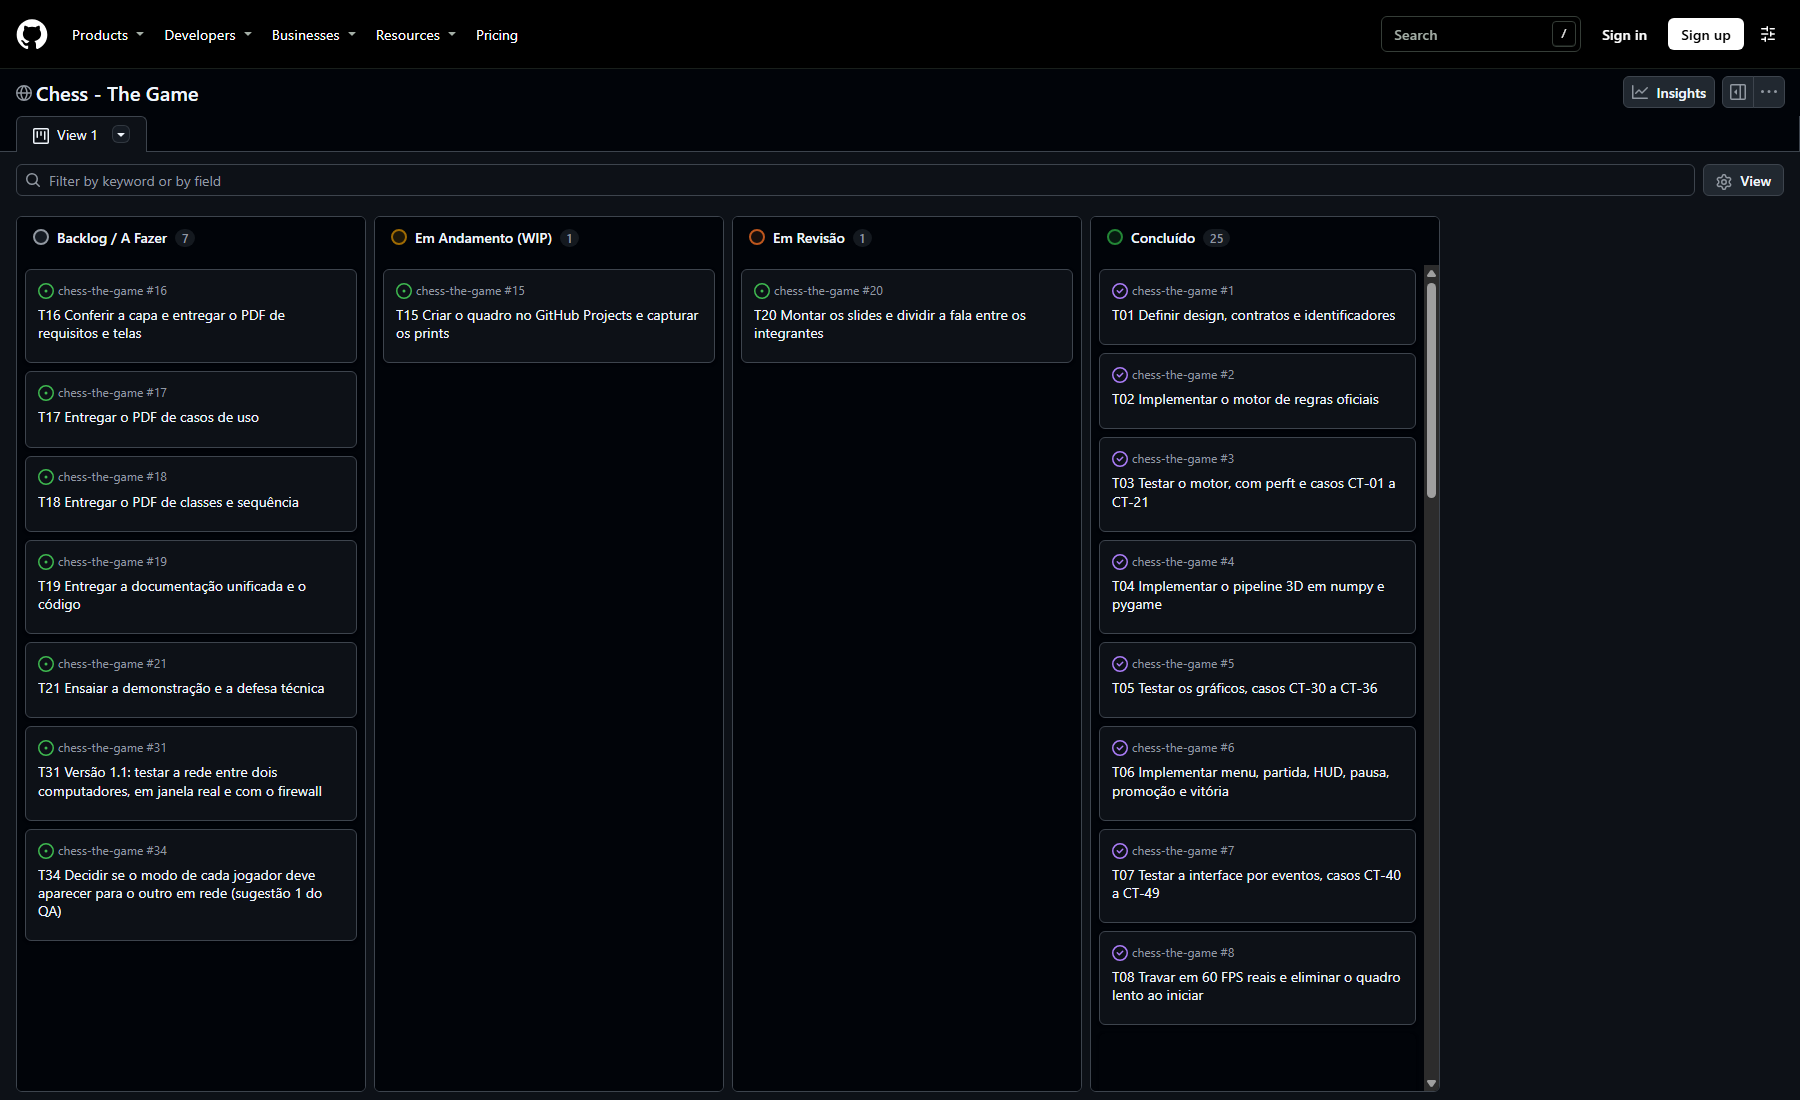
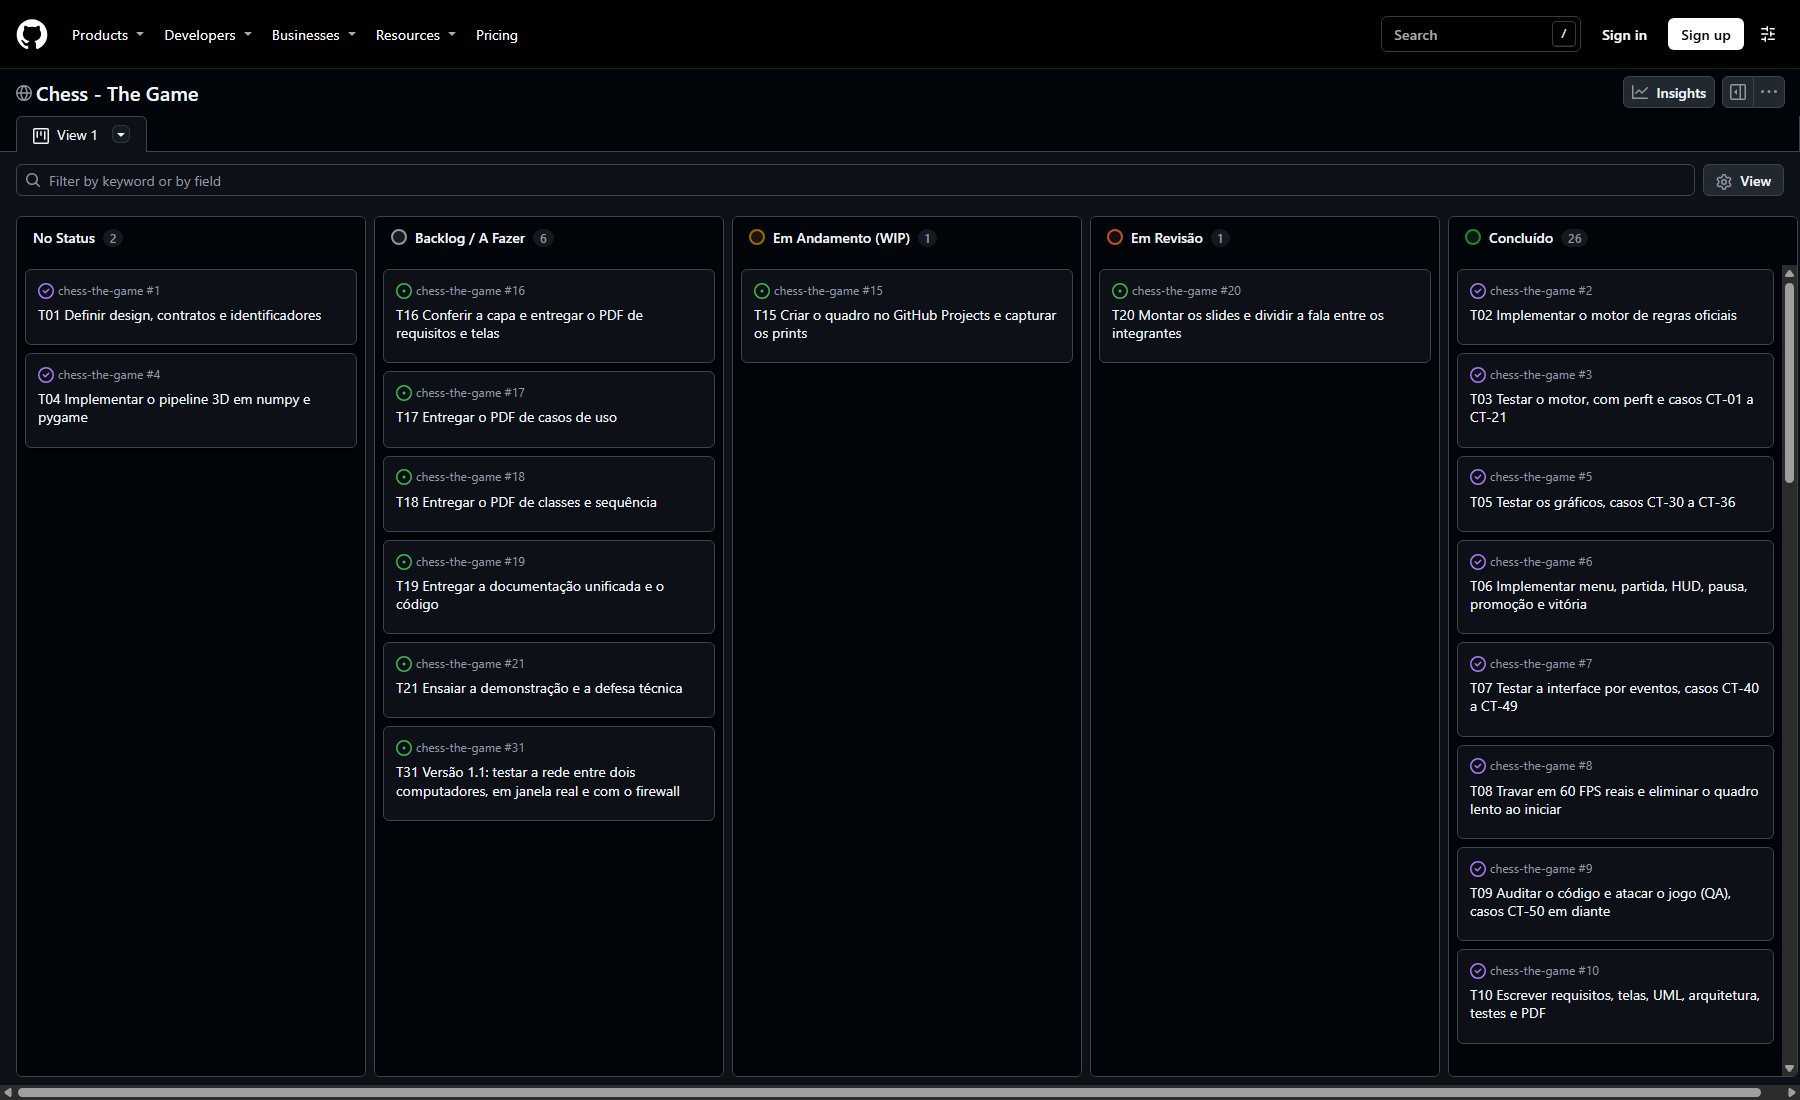
docs: registra a release v1.1.1 e o quadro atualizado
O CI do commit da tag passou nas 6 combinacoes, com 3632 testes em cada
uma. Atualiza o print do quadro, com as tarefas ja concluidas.

diff --git a/docs/07-plano-de-testes.md b/docs/07-plano-de-testes.md
@@ -244,7 +244,7 @@ Medida com `pytest-cov`, com ramos, na mesma execução dos casos acima. A meta 
 | Requisito | Critério de aceite | Evidência real | Situação |
 |---|---|---|---|
 | **RNF01** Desempenho: 60 FPS travados em 1280x720 | Média de 60 FPS em 1280x720, em janela real, com intervalo entre quadros perto de 16,67 ms. | `tools/demo_automatica.py`, janela real em 1280x720, com `display.flip`: 60,0 FPS médios em 1287 quadros, intervalo médio de 16,66 ms, p95 de 17,22 ms, p99 de 20,51 ms, máximo de 40,55 ms. 2 quadros passaram de 25 ms (0,16%). Por cenário: `tools/demo_automatica.py`, commit `eaf8f25`, janela real em 1280x720: 60,0 FPS em 2 jogadores, 59,7 FPS em partida contra a CPU Hardcore, 59,5 FPS em CPU pensando, câmera parada, 59,7 FPS em CPU pensando, com animação. O cenário de 2 jogadores roda sem argumento, e os da CPU rodam com `--cpu hardcore`. Testes `test_media_fica_em_60_fps_mesmo_com_sono_atrasado`: 1 de 1 passaram. | Atendido nesta máquina |
-| **RNF02** Portabilidade: Python 3.10+ em Windows, Linux e macOS | Suíte passa em Python 3.10+ no Windows, no Linux e no macOS. | Executado: Python 3.12.10 em Windows 11. O CI confirmou as 6 combinações no commit d14edf5, o da tag v1.1.0: Python 3.10 e 3.12 em Windows, Linux e macOS, com 3619 testes aprovados em cada uma, sem os testes slow (https://github.com/Kauhan33/chess-the-game/actions/runs/42213421124). O CI roda sem janela real. Testes `test_source_parses_as_python_310`: 14 de 14 passaram. | Atendido nos testes, com janela real só no Windows |
+| **RNF02** Portabilidade: Python 3.10+ em Windows, Linux e macOS | Suíte passa em Python 3.10+ no Windows, no Linux e no macOS. | Executado: Python 3.12.10 em Windows 11. O CI confirmou as 6 combinações no commit 4be3181, o da tag v1.1.1: Python 3.10 e 3.12 em Windows, Linux e macOS, com 3632 testes aprovados em cada uma, sem os testes slow (https://github.com/Kauhan33/chess-the-game/actions/runs/42245646877). O CI roda sem janela real. Testes `test_source_parses_as_python_310`: 14 de 14 passaram. | Atendido nos testes, com janela real só no Windows |
 | **RNF03** Responsividade: resposta visual à entrada em até 1 quadro | A casa sob o mouse e a seleção mudam no mesmo quadro do evento. | Testes `test_hover_marca_o_cursor_no_mesmo_quadro`, `test_clique_seleciona_e_preenche_a_matriz_de_cores`: 2 de 2 passaram. | Atendido |
 | **RNF04** Estética e acessibilidade: paleta coerente e estados por cor e por forma | Textos com contraste de pelo menos 4,5:1. Caminho, captura e ameaça têm forma além de cor. | Testes `test_contraste_dos_textos_passa_de_4_5_para_1`, `test_caminho_e_captura_tem_forma_alem_de_cor`, `test_pecas_ameacadas_aparecem_na_matriz_com_forma_e_tint`: 16 de 16 passaram. | Atendido |
 | **RNF05** Arquitetura em camadas, com motor testável sem interface | `core` não importa pygame, numpy nem `graphics`; `graphics` não importa `core`. | Testes `test_camada_nao_importa_o_que_nao_deve`: 4 de 4 passaram. | Atendido |
@@ -340,6 +340,8 @@ Depois da tag `v1.1.0`, um commit só de documentação falhou em 1 combinação
 ### Um modo só por sala
 
 Na versão 1.1.1, por decisão do aluno, o modo passou a ser um só para os dois em rede: quem cria a sala escolhe, e quem entra segue. A mudança sobe o protocolo para a versão 3, porque `start` passa a levar o modo. Os casos CT-86 e CT-95 cobrem os dois sentidos, com o menu de quem entra em outro modo, o aviso na faixa e a revanche, e os testes do protocolo recusam modo desconhecido ou ausente.
+
+As 6 combinações do CI passaram no commit `4be3181`, o da tag `v1.1.1`, com 3632 testes aprovados em cada uma, sem os `slow` ([execução](https://github.com/Kauhan33/chess-the-game/actions/runs/42245646877)).
 
 ### CI da versão 1.1
 

diff --git a/docs/09-kanban.md b/docs/09-kanban.md
@@ -23,7 +23,6 @@ As colunas são as pedidas no enunciado. A fonte das tarefas é `docs/kanban/tar
 | Backlog / A Fazer | T19 | Entregar a documentação unificada e o código | E4 | ainda não feita |
 | Backlog / A Fazer | T21 | Ensaiar a demonstração e a defesa técnica | E5 | ainda não feita |
 | Backlog / A Fazer | T31 | Versão 1.1: testar a rede entre dois computadores, em janela real e com o firewall | E5 | ainda não feita |
-| Backlog / A Fazer | T36 | Versão 1.1.1: publicar no GitHub e gerar o novo executável, com autorização do grupo | E4 | ainda não feita |
 | Em Andamento (WIP) | T15 | Criar o quadro no GitHub Projects e capturar os prints | E4 | quadro criado em 2026-11-04; prints a capturar pelo grupo |
 | Em Revisão | T20 | Montar os slides e dividir a fala entre os integrantes | E5 | slides prontos para o grupo revisar |
 | Concluído | T01 | Definir design, contratos e identificadores | E4 | commit 714b188 |
@@ -53,6 +52,7 @@ As colunas são as pedidas no enunciado. A fonte das tarefas é `docs/kanban/tar
 | Concluído | T33 | Versão 1.1: publicar no GitHub e gerar o novo executável, com autorização do grupo | E4 | release v1.1.0, commit d14edf5 |
 | Concluído | T34 | Decidir se o modo de cada jogador deve aparecer para o outro em rede (sugestão 1 do QA) | E4 | decisão do aluno em 2026-11-06: um modo só, escolhido por quem cria a sala |
 | Concluído | T35 | Versão 1.1.1: um modo só por sala em rede, com o protocolo 3 | E4 | suíte completa no commit 846bba7: 3668 aprovados, 0 falhas |
+| Concluído | T36 | Versão 1.1.1: publicar no GitHub e gerar o novo executável, com autorização do grupo | E4 | release v1.1.1, commit 4be3181 |
 <!-- FIM:kanban -->
 
 ## 9.3 Evolução real pelo git
@@ -86,6 +86,7 @@ Tabela gerada do `git log`, com as datas e as mensagens originais dos commits.
 | 2026-11-06 08:52 | `d14edf5` | test: tira o arredondamento do teste do sinal de vida |
 | 2026-11-06 09:31 | `0bcbc24` | docs: registra a release v1.1.0 e o print do quadro |
 | 2026-11-06 10:03 | `846bba7` | feat(rede): um modo so para os dois, escolhido por quem cria a sala |
+| 2026-11-06 11:37 | `4be3181` | docs: resultados da suite completa da versao 1.1.1 |
 <!-- FIM:evolucao -->
 
 ## 9.4 Prints do quadro

diff --git a/docs/testes/relatorio-qa-v11.md b/docs/testes/relatorio-qa-v11.md
@@ -48,7 +48,7 @@ As sugestões 4, 7 e 8 foram aplicadas no mesmo commit `eaf8f25`: a ajuda só li
 - **Sala pelo IP real:** verificada em um só computador em 2026-11-06, no commit `eaf8f25`, com `0.0.0.0`, a porta 50507 e o código gerado com o IP da rede local, por um script avulso, com sessões e sem janela. Início da partida, um lance de cada lado, `result` e saída funcionaram.
 - **Macaco longo, no estado final:** 16 aprovados, em 12 min 41 s.
 
-**CI:** a versão 1.1 passou em Python 3.10 e 3.12, no Windows, no Linux e no macOS, no commit `d14edf5`, o da tag `v1.1.0` ([execução](https://github.com/Kauhan33/chess-the-game/actions/runs/42213421124)).
+**CI:** a versão 1.1 passou em Python 3.10 e 3.12, no Windows, no Linux e no macOS, no commit `d14edf5`, o da tag `v1.1.0` ([execução](https://github.com/Kauhan33/chess-the-game/actions/runs/42213421124)), e a versão 1.1.1 também, no commit `4be3181`, o da tag `v1.1.1` ([execução](https://github.com/Kauhan33/chess-the-game/actions/runs/42245646877)).
 
 **Segue não verificado:** conexão entre dois computadores, passagem pelo firewall e rede em janela real.
 

diff --git a/README.md b/README.md
@@ -94,7 +94,7 @@ pip install -r requirements.txt
 python main.py
 ```
 
-O CI em `.github/workflows/testes.yml` roda os testes em Python 3.10 e 3.12, no Windows, no Linux e no macOS, sem janela. Na versão 1.1, todas as combinações passaram, sem os testes `slow`. O jogo só foi aberto em janela real e medido em Python 3.12 no Windows 11. O capítulo 7 traz os detalhes.
+O CI em `.github/workflows/testes.yml` roda os testes em Python 3.10 e 3.12, no Windows, no Linux e no macOS, sem janela. Na versão 1.1.1, todas as combinações passaram, sem os testes `slow`. O jogo só foi aberto em janela real e medido em Python 3.12 no Windows 11. O capítulo 7 traz os detalhes.
 
 ### Executável, sem instalar Python (Windows)
 
